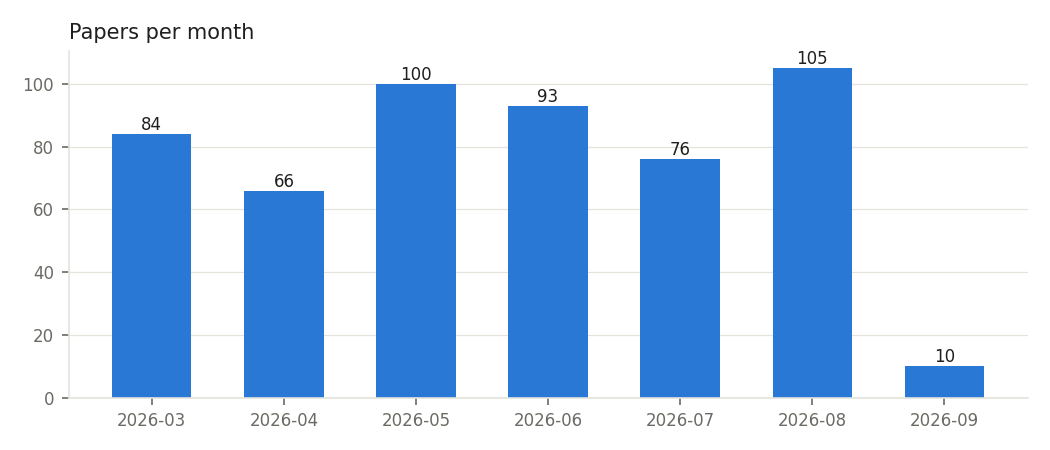
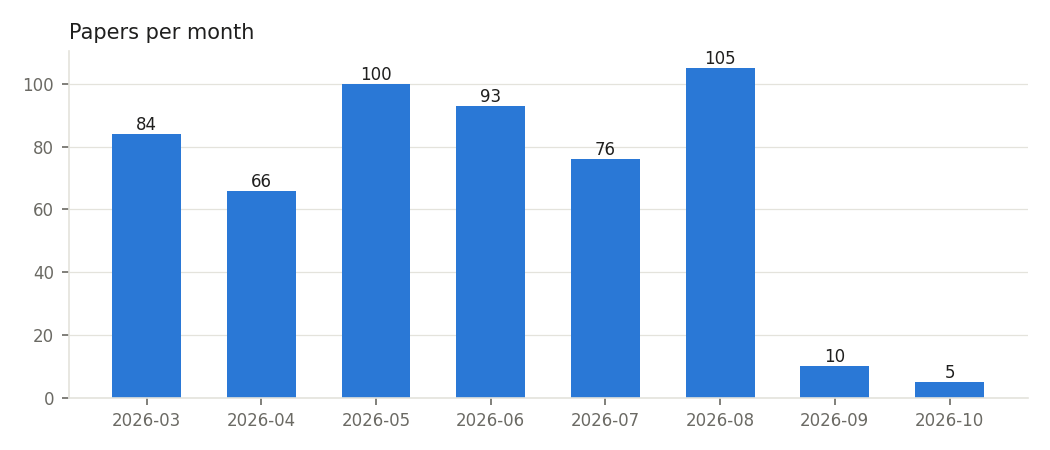
Weekly update: add new papers (2026-10-05)

Changed region(s): [[0.2133, 0.0933, 0.9448, 0.9644], [0.0914, 0.2489, 0.1829, 0.9644]]

diff --git a/outputs/reports/trend_report_keyword.md b/outputs/reports/trend_report_keyword.md
@@ -1,7 +1,7 @@
 # 금융 머신러닝 (Financial Machine Learning) 연구 동향 보고서
 
-- 생성: 2026-09-28 04:58 · 분류 방식: **keyword**
-- 데이터: arXiv API, 2026-03 ~ 2026-09 (7개월), 논문 534건
+- 생성: 2026-10-05 05:12 · 분류 방식: **keyword**
+- 데이터: arXiv API, 2026-03 ~ 2026-10 (8개월), 논문 539건
 - 월별 비중은 LLM 이 아니라 코드로 계산 (해당 월 논문 수 대비 비율)
 
 ## 1. 월별 논문 수
@@ -12,36 +12,36 @@
 
 ![topic share](../figures/topic_share.png)
 
-| 주제 | 논문 수 | 전체 비중 | 26-03 | 26-04 | 26-05 | 26-06 | 26-07 | 26-08 | 26-09 | 전반→후반 (%p) |
-|---|---:|---:|---:|---:|---:|---:|---:|---:|---:|---:|
-| 포트폴리오·자산배분 | 115 | 21.5% | 20% | 23% | 18% | 20% | 24% | 25% | 20% | +2.9 |
-| 수익률·가격 예측 | 92 | 17.2% | 20% | 15% | 26% | 16% | 8% | 15% | 20% | -7.5 |
-| 금융 텍스트·감성·대체데이터 | 87 | 16.3% | 11% | 17% | 16% | 15% | 22% | 17% | 20% | +3.6 |
-| 트레이딩·시장 미시구조 | 46 | 8.6% | 8% | 3% | 7% | 11% | 12% | 10% | 10% | +4.2 |
-| 신용·사기탐지·은행 | 41 | 7.7% | 12% | 5% | 8% | 9% | 3% | 9% | 10% | -1.4 |
-| 기타 | 39 | 7.3% | 10% | 8% | 6% | 6% | 9% | 6% | 10% | -0.6 |
-| 리스크·변동성 | 32 | 6.0% | 4% | 11% | 7% | 6% | 8% | 3% | 0% | -1.5 |
-| 파생상품 가격결정·헤징 | 31 | 5.8% | 6% | 6% | 4% | 6% | 9% | 5% | 0% | +1.1 |
-| 암호화폐·DeFi | 27 | 5.1% | 5% | 8% | 2% | 5% | 3% | 9% | 0% | +1.2 |
-| 자산가격결정·팩터 | 18 | 3.4% | 4% | 6% | 3% | 4% | 1% | 2% | 10% | -1.2 |
-| 거시경제·정책 | 6 | 1.1% | 1% | 0% | 3% | 0% | 1% | 1% | 0% | -0.9 |
+| 주제 | 논문 수 | 전체 비중 | 26-03 | 26-04 | 26-05 | 26-06 | 26-07 | 26-08 | 26-09 | 26-10 | 전반→후반 (%p) |
+|---|---:|---:|---:|---:|---:|---:|---:|---:|---:|---:|---:|
+| 포트폴리오·자산배분 | 116 | 21.5% | 20% | 23% | 18% | 20% | 24% | 25% | 20% | 20% | +3.9 |
+| 수익률·가격 예측 | 92 | 17.1% | 20% | 15% | 26% | 16% | 8% | 15% | 20% | 0% | -7.6 |
+| 금융 텍스트·감성·대체데이터 | 89 | 16.5% | 11% | 17% | 16% | 15% | 22% | 17% | 20% | 40% | +5.3 |
+| 트레이딩·시장 미시구조 | 47 | 8.7% | 8% | 3% | 7% | 11% | 12% | 10% | 10% | 20% | +3.1 |
+| 신용·사기탐지·은행 | 41 | 7.6% | 12% | 5% | 8% | 9% | 3% | 9% | 10% | 0% | -2.3 |
+| 기타 | 39 | 7.2% | 10% | 8% | 6% | 6% | 9% | 6% | 10% | 0% | -0.1 |
+| 파생상품 가격결정·헤징 | 32 | 5.9% | 6% | 6% | 4% | 6% | 9% | 5% | 0% | 20% | +1.1 |
+| 리스크·변동성 | 32 | 5.9% | 4% | 11% | 7% | 6% | 8% | 3% | 0% | 0% | -2.1 |
+| 암호화폐·DeFi | 27 | 5.0% | 5% | 8% | 2% | 5% | 3% | 9% | 0% | 0% | +0.9 |
+| 자산가격결정·팩터 | 18 | 3.3% | 4% | 6% | 3% | 4% | 1% | 2% | 10% | 0% | -2.0 |
+| 거시경제·정책 | 6 | 1.1% | 1% | 0% | 3% | 0% | 1% | 1% | 0% | 0% | -0.1 |
 
-> ⚠ 논문이 30건 미만인 달은 비중이 크게 흔들리므로 해석에 주의: 2026-09 (10건)
+> ⚠ 논문이 30건 미만인 달은 비중이 크게 흔들리므로 해석에 주의: 2026-09 (10건), 2026-10 (5건)
 
 ## 3. 증가·감소 주제
 
-**증가**: 트레이딩·시장 미시구조 (+4.2%p, 기울기 +0.82%p/월), 금융 텍스트·감성·대체데이터 (+3.6%p, 기울기 +1.26%p/월), 포트폴리오·자산배분 (+2.9%p, 기울기 +0.32%p/월)
+**증가**: 금융 텍스트·감성·대체데이터 (+5.3%p, 기울기 +2.77%p/월), 포트폴리오·자산배분 (+3.9%p, 기울기 +0.10%p/월), 트레이딩·시장 미시구조 (+3.1%p, 기울기 +1.49%p/월)
 
-**감소**: 수익률·가격 예측 (-7.5%p, 기울기 -0.67%p/월), 리스크·변동성 (-1.5%p, 기울기 -0.90%p/월), 신용·사기탐지·은행 (-1.4%p, 기울기 -0.11%p/월)
+**감소**: 수익률·가격 예측 (-7.6%p, 기울기 -1.88%p/월), 신용·사기탐지·은행 (-2.3%p, 기울기 -0.72%p/월), 리스크·변동성 (-2.1%p, 기울기 -1.06%p/월)
 
 ## 4. 주제별 요약과 근거 논문
 
-### 포트폴리오·자산배분 (115건)
+### 포트폴리오·자산배분 (116건)
 
 근거 논문:
-- (2026-08) [Super Library Agent: Joint Generation and Maintenance of Multiple Applications Beyond the Single Codebase](http://arxiv.org/abs/2608.29310v1)
 - (2026-09) [FinRankGRPO: Optimizing LLMs for Listwise Financial Asset Ranking via Group Relative Policy Optimization](http://arxiv.org/abs/2609.24175v1)
 - (2026-09) [Propose, Don't Judge: An Anytime-Valid Referee for LLM Agents That Mine Investment Factors](http://arxiv.org/abs/2609.27051v1)
+- (2026-10) [PreFER: Interactive Robo-Advisor with Scoring Mechanism](http://arxiv.org/abs/2610.03406v1)
 
 ### 수익률·가격 예측 (92건)
 
@@ -50,19 +50,19 @@
 - (2026-09) [The Informational Content in Lepto-Variance and Its Relation to Higher Moments](http://arxiv.org/abs/2609.25144v1)
 - (2026-09) [EXAONE Demand 1.0: A Time Series Foundation Model for Demand Forecasting](http://arxiv.org/abs/2609.30880v1)
 
-### 금융 텍스트·감성·대체데이터 (87건)
+### 금융 텍스트·감성·대체데이터 (89건)
 
 근거 논문:
-- (2026-08) [Frontiers in FinTech: Multimodal Foundation Models for Financial Reporting and Decision Science](http://arxiv.org/abs/2608.22724v2)
-- (2026-09) [AlphaOpsBench: Benchmarking End-to-End Alpha Strategy Operationalization in Prediction Markets](http://arxiv.org/abs/2609.31390v1)
 - (2026-09) [Same Text, Different Numbers: The Divergence of LLM-Based Measures](http://arxiv.org/abs/2609.31013v1)
+- (2026-10) [Trading Strategy Optimization via Textual Gradient](http://arxiv.org/abs/2610.03128v1)
+- (2026-10) [MintEval: Do LLMs Implement the Trading Strategy You Asked For? A Behavioural-Equivalence Benchmark for Natural-Language-to-Strategy Code](http://arxiv.org/abs/2610.03080v1)
 
-### 트레이딩·시장 미시구조 (46건)
+### 트레이딩·시장 미시구조 (47건)
 
 근거 논문:
-- (2026-08) [What survives honest evaluation? Leakage-safe, search-aware assessment of LLM-driven trading strategy discovery](http://arxiv.org/abs/2608.27734v1)
 - (2026-08) [RetailAgent: Structured Adverse Timing in Self-Conditioned Multimodal LLM Trading Agents](http://arxiv.org/abs/2608.28399v1)
 - (2026-09) [Algorithmic trading and stochastic integration](http://arxiv.org/abs/2609.31578v1)
+- (2026-10) [When a Correct Reward Is Not Enough: Diagnosing and Guiding PPO in an Analytically Solved Broker-Trader Game](http://arxiv.org/abs/2610.03598v1)
 
 ### 신용·사기탐지·은행 (41건)
 
@@ -78,19 +78,19 @@
 - (2026-08) [PGFS++: Molecular Property Improvement under Synthesis and Diversity Constraints](http://arxiv.org/abs/2608.19121v1)
 - (2026-09) [Bridging LLM Serving and CXL-SSDs with Chunk-Aware KV Cache Management](http://arxiv.org/abs/2609.26828v1)
 
+### 파생상품 가격결정·헤징 (32건)
+
+근거 논문:
+- (2026-08) [Deep Hedging Under Realistic Market Frictions: A Regime-Conditional Empirical Study of Dynamic Option Hedging on Bitcoin Options](http://arxiv.org/abs/2608.29025v1)
+- (2026-08) [Neural Calibration of a Complete Market Model](http://arxiv.org/abs/2608.30867v1)
+- (2026-10) [Shapley-based Structural Analysis of Neural Calibration for Stochastic Volatility Models](http://arxiv.org/abs/2610.03076v1)
+
 ### 리스크·변동성 (32건)
 
 근거 논문:
 - (2026-08) [Neural Networks with Local Converging Inputs for Efficient Options Pricing Models](http://arxiv.org/abs/2608.02778v1)
 - (2026-08) [Beyond Forecasting: Recasting Volatility Control as a Routing Problem](http://arxiv.org/abs/2608.10375v1)
 - (2026-08) [Asymptotically-informed neural networks for Black-Scholes implied volatility computation](http://arxiv.org/abs/2609.05491v1)
-
-### 파생상품 가격결정·헤징 (31건)
-
-근거 논문:
-- (2026-08) [Your AI, On a Dial: Controlling Investment Bias in LLMs with a Single Neuron](http://arxiv.org/abs/2608.22852v1)
-- (2026-08) [Deep Hedging Under Realistic Market Frictions: A Regime-Conditional Empirical Study of Dynamic Option Hedging on Bitcoin Options](http://arxiv.org/abs/2608.29025v1)
-- (2026-08) [Neural Calibration of a Complete Market Model](http://arxiv.org/abs/2608.30867v1)
 
 ### 암호화폐·DeFi (27건)
 
@@ -117,12 +117,12 @@
 
 ![method share](../figures/method_share.png)
 
-| 방법론 | 26-03 | 26-04 | 26-05 | 26-06 | 26-07 | 26-08 | 26-09 |
-|---|---:|---:|---:|---:|---:|---:|---:|
-| 전통 ML(트리·선형·SVM) | 5% | 5% | 4% | 3% | 8% | 9% | 0% |
-| 딥러닝 시계열(Transformer·RNN 등) | 30% | 29% | 26% | 19% | 30% | 17% | 10% |
-| 생성모델(Diffusion·GAN·VAE) | 5% | 5% | 5% | 6% | 0% | 3% | 10% |
-| 그래프 신경망 | 2% | 0% | 0% | 0% | 3% | 1% | 0% |
-| LLM·생성형 에이전트 | 37% | 48% | 51% | 54% | 41% | 53% | 70% |
-| 기타/통계·이론 | 14% | 6% | 8% | 6% | 7% | 10% | 10% |
-| 강화학습 | 7% | 8% | 6% | 11% | 12% | 8% | 0% |
+| 방법론 | 26-03 | 26-04 | 26-05 | 26-06 | 26-07 | 26-08 | 26-09 | 26-10 |
+|---|---:|---:|---:|---:|---:|---:|---:|---:|
+| 전통 ML(트리·선형·SVM) | 5% | 5% | 4% | 3% | 8% | 9% | 0% | 0% |
+| 딥러닝 시계열(Transformer·RNN 등) | 30% | 29% | 26% | 19% | 30% | 17% | 10% | 20% |
+| 생성모델(Diffusion·GAN·VAE) | 5% | 5% | 5% | 6% | 0% | 3% | 10% | 0% |
+| 그래프 신경망 | 2% | 0% | 0% | 0% | 3% | 1% | 0% | 0% |
+| LLM·생성형 에이전트 | 37% | 48% | 51% | 54% | 41% | 53% | 70% | 60% |
+| 기타/통계·이론 | 14% | 6% | 8% | 6% | 7% | 10% | 10% | 0% |
+| 강화학습 | 7% | 8% | 6% | 11% | 12% | 8% | 0% | 20% |
